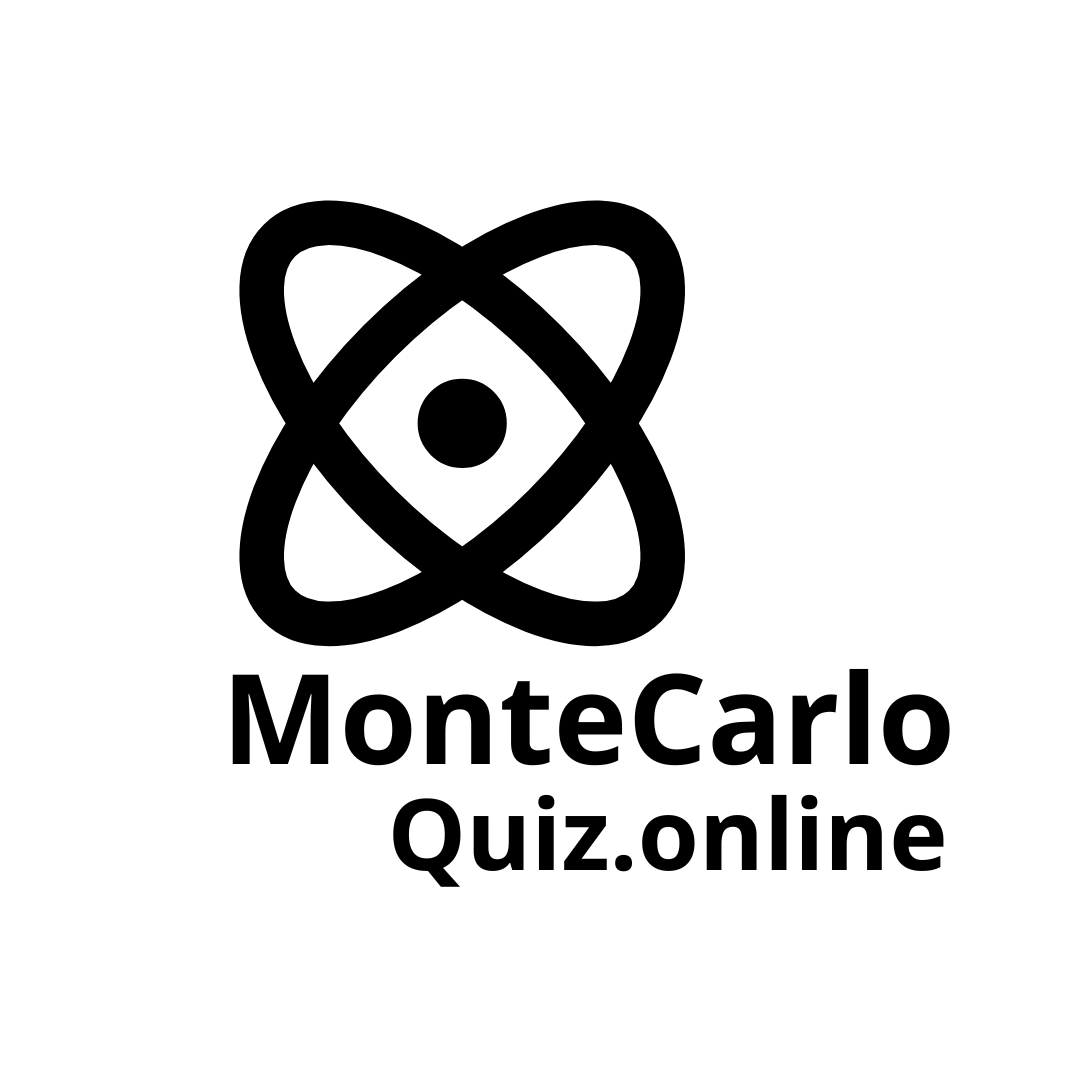
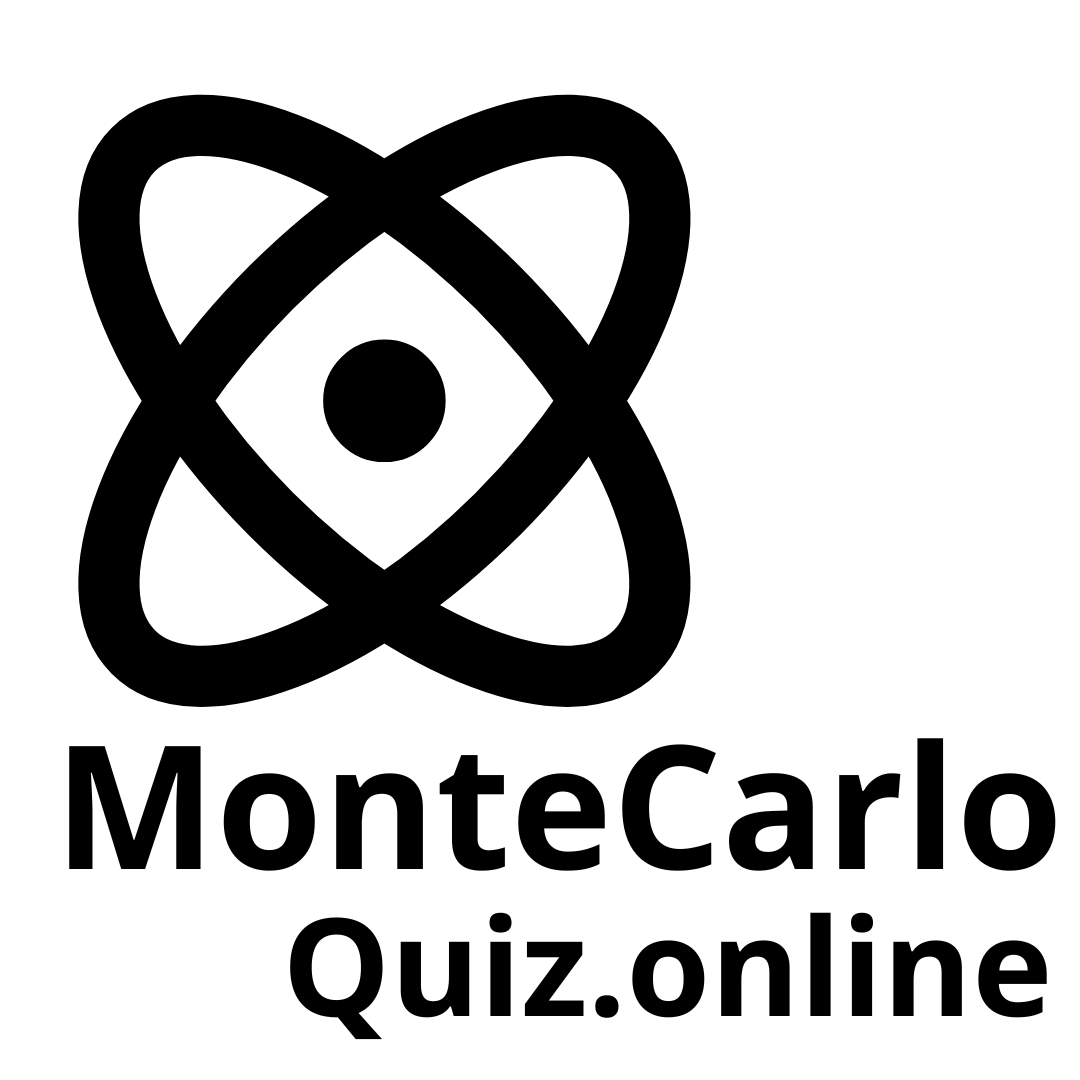
com imagens compartilhaveis em redes sociais V3

Changed region(s): [[0.0611, 0.0611, 0.9778, 0.9778], [0.4583, 0.3056, 0.4889, 0.3361]]

diff --git a/index.html b/index.html
@@ -16,33 +16,13 @@
     <link rel="icon" type="image/png" href="/icons/favicon-16x16.png" sizes="16x16" />
     <link rel="icon" type="image/png" href="/icons/favicon-32x32.png" sizes="32x32" />
     <link rel="icon" type="image/png" href="/icons/favicon-96x96.png" sizes="96x96" />
-    <link rel="apple-touch-icon" sizes="57x57" href="/icons/apple-icon-57x57.png" />
-    <link rel="apple-touch-icon" sizes="60x60" href="/icons/apple-icon-60x60.png" />
-    <link rel="apple-touch-icon" sizes="72x72" href="/icons/apple-icon-72x72.png" />
-    <link rel="apple-touch-icon" sizes="76x76" href="/icons/apple-icon-76x76.png" />
-    <link rel="apple-touch-icon" sizes="114x114" href="/icons/apple-icon-114x114.png" />
-    <link rel="apple-touch-icon" sizes="120x120" href="/icons/apple-icon-120x120.png" />
-    <link rel="apple-touch-icon" sizes="144x144" href="/icons/apple-icon-144x144.png" />
-    <link rel="apple-touch-icon" sizes="152x152" href="/icons/apple-icon-152x152.png" />
     <link rel="apple-touch-icon" sizes="180x180" href="/icons/apple-icon-180x180.png" />
-    <link rel="icon" type="image/png" sizes="192x192" href="/icons/android-icon-192x192.png" />
-    <link rel="icon" type="image/png" sizes="36x36" href="/icons/android-icon-36x36.png" />
-    <link rel="icon" type="image/png" sizes="48x48" href="/icons/android-icon-48x48.png" />
-    <link rel="icon" type="image/png" sizes="72x72" href="/icons/android-icon-72x72.png" />
-    <link rel="icon" type="image/png" sizes="96x96" href="/icons/android-icon-96x96.png" />
-    <link rel="icon" type="image/png" sizes="144x144" href="/icons/android-icon-144x144.png" />
-    <link rel="icon" type="image/png" sizes="150x150" href="/icons/ms-icon-150x150.png" />
-    <link rel="icon" type="image/png" sizes="310x310" href="/icons/ms-icon-310x310.png" />
-
-    <!-- Configuração para Windows -->
-    <meta name="msapplication-TileImage" content="/icons/ms-icon-144x144.png" />
-    <meta name="msapplication-TileColor" content="#ffffff" />
 
     <!-- Configuração para Android/Manifest -->
     <link rel="manifest" href="/icons/manifest.json" />
     <meta name="theme-color" content="#ffffff" />
 
-    <!-- Meta tags Open Graph / Facebook -->
+    <!-- Meta tags Open Graph / Facebook / LinkedIn -->
     <meta property="og:type" content="website" />
     <meta property="og:url" content="https://montecarloquiz.online/" />
     <meta property="og:title" content="Quiz Monte Carlo - Física Médica" />
@@ -50,13 +30,13 @@
       property="og:description"
       content="Desafie seus conhecimentos em simulação de Monte Carlo com cenários interativos de física médica. Francisco Diego PPGEB-UFU."
     />
-    <meta property="og:image" content="https://montecarloquiz.online/icons/monte-carlo-quiz.png" />
+    <!-- Imagem para Open Graph (Facebook/LinkedIn/WhatsApp): 1200x630 -->
     <meta
-      property="og:image:secure_url"
-      content="https://montecarloquiz.online/icons/monte-carlo-quiz.png"
+      property="og:image"
+      content="https://montecarloquiz.online/monte-carlo-quiz_1200X630.png"
     />
-    <meta property="og:image:width" content="800" />
-    <meta property="og:image:height" content="800" />
+    <meta property="og:image:width" content="1200" />
+    <meta property="og:image:height" content="630" />
     <meta property="og:image:alt" content="Quiz Monte Carlo - Física Médica" />
 
     <!-- Meta tags Twitter -->
@@ -66,10 +46,28 @@
       name="twitter:description"
       content="Desafie seus conhecimentos em simulação de Monte Carlo com cenários interativos de física médica. Francisco Diego PPGEB-UFU."
     />
-    <meta name="twitter:image" content="https://montecarloquiz.online/icons/monte-carlo-quiz.png" />
+    <!-- Imagem para Twitter Cards: 1200x600 -->
+    <meta
+      name="twitter:image"
+      content="https://montecarloquiz.online/monte-carlo-quiz_1200X600.png"
+    />
+    <meta name="twitter:image:alt" content="Quiz Monte Carlo - Física Médica" />
 
-    <!-- Meta tags WhatsApp -->
-    <meta property="og:site_name" content="Quiz Monte Carlo" />
+    <!-- Meta tags adicionais para WhatsApp (Usa a imagem do Open Graph) -->
+    <meta
+      property="og:image"
+      content="https://montecarloquiz.online/monte-carlo-quiz_800X800.png"
+    />
+    <meta property="og:image:width" content="800" />
+    <meta property="og:image:height" content="800" />
+
+    <!-- Meta tags para Instagram (Opcional, usa imagem quadrada 1080x1080) -->
+    <meta
+      property="og:image"
+      content="https://montecarloquiz.online/monte-carlo-quiz_1080X1080.png"
+    />
+    <meta property="og:image:width" content="1080" />
+    <meta property="og:image:height" content="1080" />
   </head>
   <body>
     <div id="root"></div>
